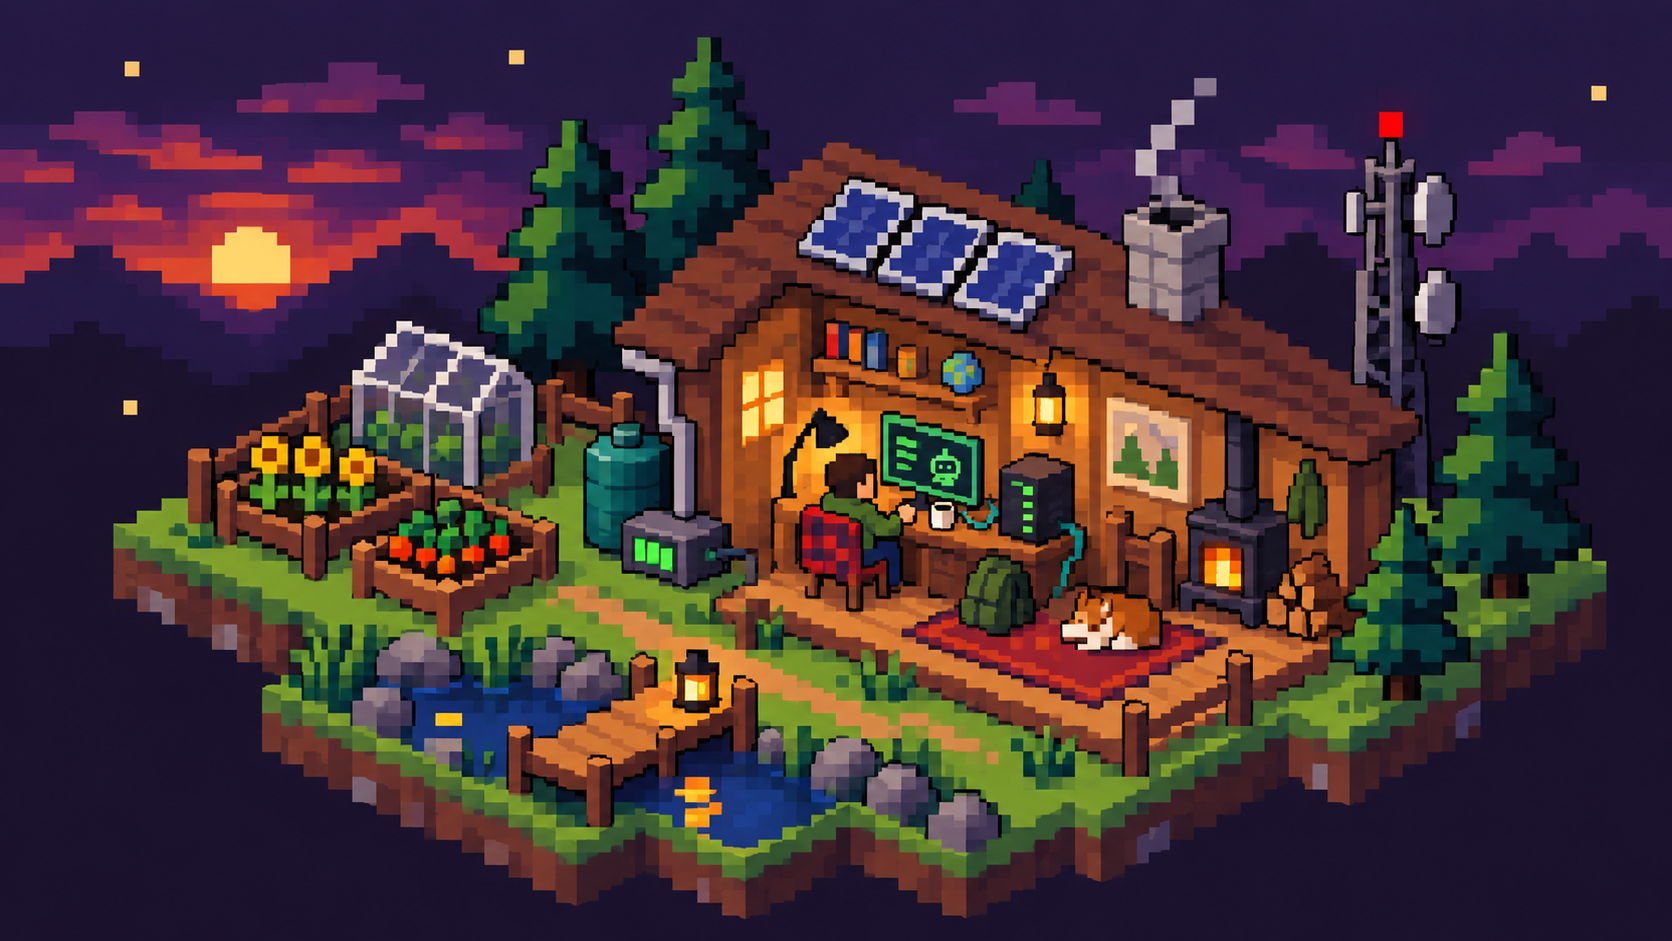
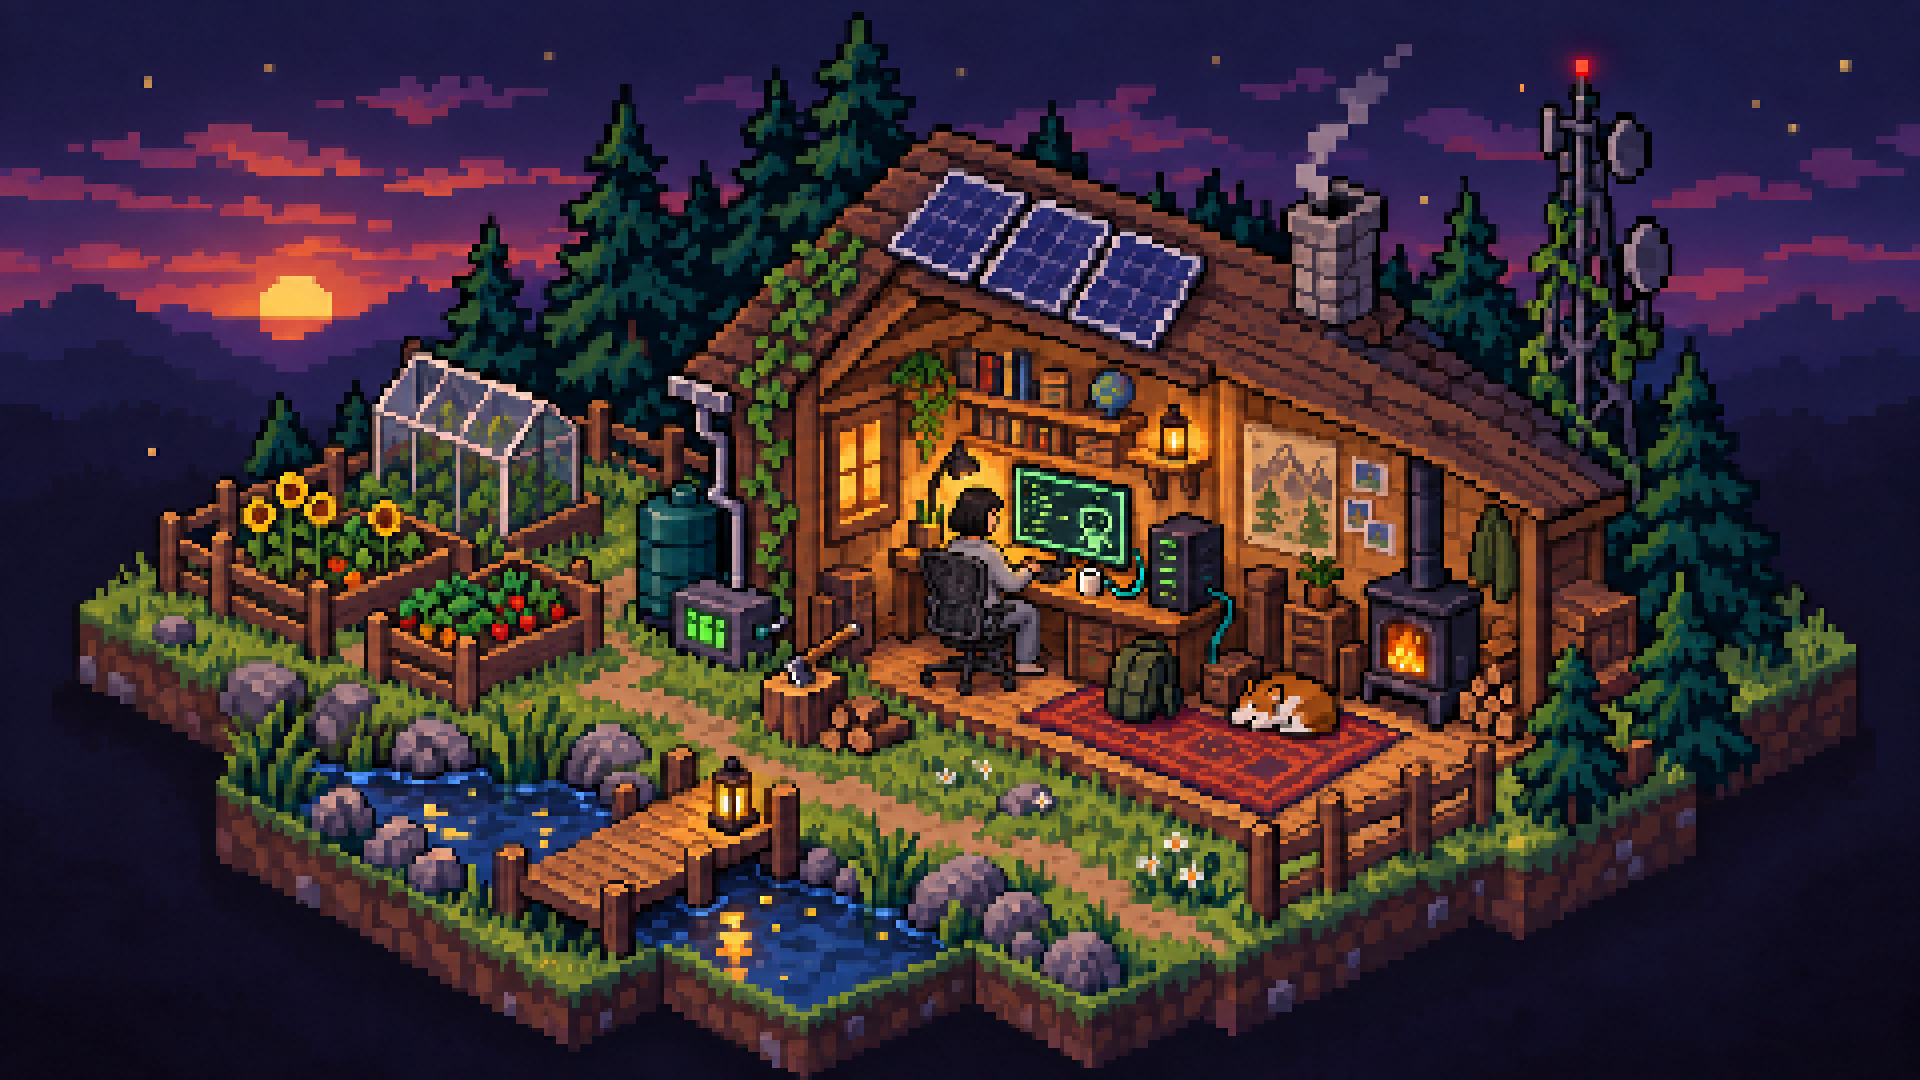
Update developer artwork and apply clean pixel grid

diff --git a/README.md b/README.md
@@ -2,7 +2,7 @@
 
 Playing with [HolmesGPT](https://github.com/HolmesGPT/holmesgpt), agent harnesses and hardening, MCPs, and whatever else helps answer one question:
 
-![Blacksite — an isometric pixel-art homestead with solar power, a garden, and a local AI coding desk](assets/blacksite-homestead.png)
+![Blacksite — a woman with short black hair and grey sweats coding in an Aeron chair at a solar-powered homestead](assets/blacksite-homestead.png)
 
 **How useful could a local coding agent be after the internet dies in an apocalypse and I retreat to my off-grid homestead?**
 
